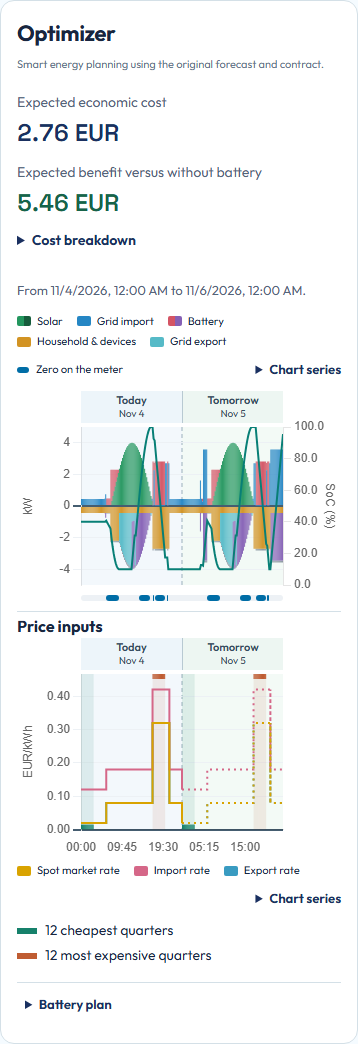
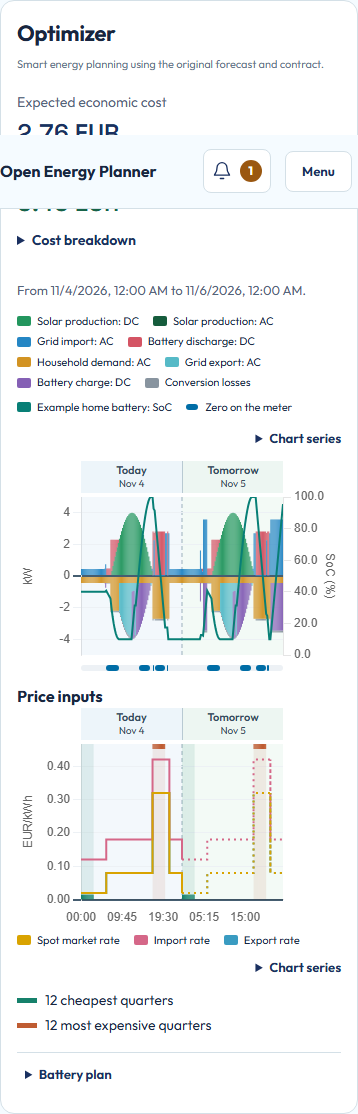
fix: keep planning tooltips readable and show actual chart series

diff --git a/src/open_energy_planner/web/public/overview.js b/src/open_energy_planner/web/public/overview.js
@@ -77,10 +77,6 @@ const INTERVAL_POINTER_EVENTS = new Set(["mousemove", "touchstart", "touchmove"]
 const LINKED_LEFT_AXIS_PX = 64;
 const LINKED_RIGHT_AXIS_PX = 58;
 const DAILY_HIGHLIGHT_QUARTERS = 12;
-const OPTIMIZER_GROUPS = {
-    import: "Grid import", export: "Grid export", solar: "Solar", solarAC: "Solar",
-    load: "Household & devices", charge: "Battery", discharge: "Battery"
-};
 let linkedInterval = null;
 const isLinkedChart = id => LINKED_CHART_IDS.includes(id);
 const DEVICE_PATTERN_SIZE_PX = 8;
@@ -350,7 +346,11 @@ function linkedChartInteraction(canvas, tooltip, hideTooltip, signal) {
 /** Keep pointer and keyboard interval cards within the viewport. */
 function positionChartTooltip(node, canvas, x, y) {
     const bounds = canvas.getBoundingClientRect(), margin = TOOLTIP_VIEWPORT_MARGIN_PX;
-    node.style.left = `${Math.max(margin, Math.min(bounds.left + x + margin, innerWidth - node.offsetWidth - margin))}px`;
+    const anchor = bounds.left + x;
+    const width = node.getBoundingClientRect().width;
+    const right = anchor + margin;
+    const left = right + width + margin <= innerWidth ? right : anchor - margin - width;
+    node.style.left = `${Math.max(margin, Math.min(left, innerWidth - width - margin))}px`;
     node.style.top = `${Math.max(margin, Math.min(bounds.top + y + margin, innerHeight - node.offsetHeight - margin))}px`;
 }
 /**
@@ -543,31 +543,6 @@ function planRankNotes(time) {
     return marks.filter(mark => mark.start <= time && time < mark.end)
         .map(mark => PLAN_RANK_NOTES[mark.extreme]);
 }
-/** Update each compact swatch from the individual series still visible in the plot. */
-function syncChartKey(instance, groupKeys) {
-    for (const {item, swatch, indexes} of groupKeys.values()) {
-        const colors = [...new Set(indexes.filter(index => instance.isDatasetVisible(index))
-            .map(index => instance.data.datasets[index].swatchColor))];
-        item.hidden = !colors.length;
-        if (colors.length) swatch.style.background = colors.length > 1
-            ? `linear-gradient(90deg, ${colors[0]} 50%, ${colors[1]} 50%)` : colors[0];
-    }
-}
-
-/** Add a compact key for a named flow group or standalone series. */
-function addChartKey(legend, groupKeys, group, indexes) {
-    if (!group) return;
-    if (!groupKeys.has(group)) {
-        const item = document.createElement("span"), keySwatch = document.createElement("span");
-        item.className = "planning-group"; keySwatch.className = "series-swatch";
-        keySwatch.setAttribute("aria-hidden", "true");
-        item.append(keySwatch, group);
-        legend.insertBefore(item, legend.querySelector("details"));
-        groupKeys.set(group, {item, swatch: keySwatch, indexes: []});
-    }
-    groupKeys.get(group).indexes.push(...indexes);
-}
-
 /** Explain the selected mark using the ranked contract rate or the spot preview's status. */
 function priceTooltipNotes(item, step, priceHoverTime) {
     const time = Number.isFinite(priceHoverTime) ? priceHoverTime : item.parsed.x;
@@ -591,7 +566,7 @@ function chartTooltipNotes(items, {id, balance, axisTime, priceHoverTime}) {
     return step?.commands || [];
 }
 
-/** Build a compact chart key and shared series menu with persistent checkbox choices. */
+/** Show the actual visible datasets and keep checkbox choices in the shared series menu. */
 function createOverviewLegend(id, series, {preserveVisibility, signal, gridSteps, legend}) {
     const planComparison = ["plan-chart", "reference-chart", "self-consumption-chart"].includes(id);
     // A retained immutable plan has the same legend group identities even after its labels change.
@@ -600,7 +575,7 @@ function createOverviewLegend(id, series, {preserveVisibility, signal, gridSteps
     legend.classList.add("compact-planning-legend");
     legend.replaceChildren();
     let seriesHost = legend;
-    const groupKeys = new Map();
+    const chartKeys = [];
     if (series.length) {
         const disclosure = document.createElement("details");
         const summary = document.createElement("summary");
@@ -653,7 +628,7 @@ function createOverviewLegend(id, series, {preserveVisibility, signal, gridSteps
             selectAll.disabled = !eligible.length;
             selectAll.textContent = eligible.every(({input}) => input.checked) ? "Deselect all" : "Select all";
         }
-        syncChartKey(instance, groupKeys);
+        chartKeys.forEach((item, index) => { item.hidden = !instance.isDatasetVisible(index); });
     }
     /** Attach controls after Chart.js has created the datasets. */
     function renderLegend(result) {
@@ -690,11 +665,18 @@ function createOverviewLegend(id, series, {preserveVisibility, signal, gridSteps
             const swatch = document.createElement("span"); swatch.className = "series-swatch"; swatch.style.backgroundColor = s.legendColor || datasets[indexes[0]].swatchColor; swatch.setAttribute("aria-hidden", "true");
             label.append(input, swatch, document.createTextNode(s.legendName || s.name)); seriesHost.append(label);
             legendEntries.push(entry);
-            const name = s.legendName || s.name;
-            const group = planComparison
-                ? OPTIMIZER_GROUPS[s.flowKey] || (entry.device ? OPTIMIZER_GROUPS.load : null)
-                : name;
-            addChartKey(legend, groupKeys, group, indexes);
+        }
+        const disclosure = legend.querySelector("details");
+        for (const dataset of datasets) {
+            const item = document.createElement("span"), swatch = document.createElement("span");
+            item.className = "planning-series";
+            swatch.className = "series-swatch";
+            swatch.style.backgroundColor = dataset.swatchColor;
+            swatch.classList.toggle("series-swatch-expected", dataset.deviceState === "expected");
+            swatch.setAttribute("aria-hidden", "true");
+            item.append(swatch, dataset.label);
+            legend.insertBefore(item, disclosure);
+            chartKeys.push(item);
         }
         if (gridSteps) {
             const item = document.createElement("span"), swatch = document.createElement("span");
@@ -702,7 +684,7 @@ function createOverviewLegend(id, series, {preserveVisibility, signal, gridSteps
             swatch.className = "grid-mode-swatch";
             swatch.setAttribute("aria-hidden", "true");
             item.append(swatch, ZERO_GRID_LABEL);
-            legend.insertBefore(item, legend.querySelector("details"));
+            legend.insertBefore(item, disclosure);
         }
         if (series.some(s => s.deviceState != null)) {
             const key = document.createElement("p"); key.id = `${id}-device-key`; deviceKey = key;
@@ -752,7 +734,7 @@ function chart(id, series, {utcDays = false, calendarDates = false, unit = "", m
     if (balance) series = quarterBalanceSeries(series);
     charts.get(id)?.destroy();
     $(`${id}-tooltip`)?.remove();
-    const tooltip = document.createElement("div"); tooltip.id = `${id}-tooltip`; tooltip.className = "chart-tooltip";
+    const tooltip = document.createElement("div"); tooltip.id = `${id}-tooltip`; tooltip.className = "chart-tooltip chart-tooltip-point";
     tooltip.hidden = true; tooltip.setAttribute("role", "tooltip"); document.body.append(tooltip);
     const daySummary = {owner: null, pinned: false};
     /** Shared dismissal also revokes date ownership when scrolling or interval inspection replaces it. */

diff --git a/src/open_energy_planner/web/public/workspace.css b/src/open_energy_planner/web/public/workspace.css
@@ -8,13 +8,13 @@
 .price-daily-low { background:#16816b; }
 .price-daily-high { background:#bf5c32; }
 .workspace .compact-planning-legend { display:flex; flex-wrap:wrap; align-items:center; gap:4px 14px; padding:0 0 6px; }
-.compact-planning-legend .planning-group { display:inline-flex; align-items:center; gap:6px; font-size:11px; }
-.compact-planning-legend .planning-group[hidden] { display:none; }
+.compact-planning-legend .planning-series { display:inline-flex; align-items:center; gap:6px; max-width:100%; overflow-wrap:anywhere; font-size:11px; }
+.compact-planning-legend .planning-series[hidden] { display:none; }
 .workspace .compact-planning-legend details { border:0; padding:0; margin:0 0 0 auto; position:relative; }
 .compact-planning-legend summary { padding:6px 0; }
 .workspace .planning-series-options { position:absolute; inset-inline-end:0; z-index:4; width:min(28rem, calc(100vw - 4.5rem)); max-height:55vh; overflow:auto; padding:12px; background:white; border:1px solid var(--oep-line); border-radius:10px; box-shadow:0 4px 16px #1c334026; }
 .planning-series-options .chart-legend { display:grid; grid-template-columns:repeat(auto-fit,minmax(min(175px,100%),1fr)); gap:4px 12px; padding-top:6px; }
-.linked-price { min-width:0; border-top:1px solid var(--oep-line); padding-top:2px; }
+.linked-price { min-width:0; padding-top:3px; }
 .workspace .optimizer-scenario > .chart-wrap { height:270px; }
 @media(max-width:640px) { .workspace .optimizer-scenario > .chart-wrap { height:220px; } }
 .linked-price h4 { margin:0; font-size:16px; }
@@ -178,6 +178,7 @@
 .balance-warning { width:100%; color:#95500d; font-size:12px; }
 .chart-tooltip { position:fixed; z-index:30; pointer-events:none; max-width:min(500px,calc(100vw - 24px)); box-sizing:border-box; padding:12px 14px; border-radius:9px; background:#122d3af5; color:#fff; box-shadow:0 5px 20px #102b3333; font-size:12px; overflow-wrap:anywhere; }
 .chart-tooltip[hidden] { display:none; }
+.chart-tooltip-point:not(.chart-tooltip-day) { width:max-content; }
 .chart-tooltip-day { pointer-events:auto; max-height:calc(100dvh - 24px); overflow-y:auto; }
 .chart-tooltip table { width:100%; margin:0; border-collapse:collapse; }
 .chart-tooltip td { padding:3px 4px; border:0; color:inherit; font-size:12px; vertical-align:top; }

diff --git a/src/open_energy_planner/web/public/balance.js b/src/open_energy_planner/web/public/balance.js
@@ -285,10 +285,8 @@ function balanceSeries(plan, problem, group, consumption, labels, intervals, row
     ];
     const series = definitions
         .filter(([key]) => !(converter && key === "load") && (group.units.length || !["charge", "discharge"].includes(key)))
-        .map(([key, name, tooltipGroup]) => ({
-            ...flowSeries(name, FLOW_COLORS[key], intervals, rows.map((row) => row?.[key]), tooltipGroup),
-            flowKey: key
-        }));
+        .map(([key, name, tooltipGroup]) =>
+            flowSeries(name, FLOW_COLORS[key], intervals, rows.map((row) => row?.[key]), tooltipGroup));
     if (!converter) for (const part of consumption.parts) {
         series.push({...flowSeries(part.name, part.color, intervals, rows.map((row, index) => row == null ? null : -part.values[index]), "Consumption"), legendId: part.identity, legendName: part.legendName, deviceState: part.state});
     }

diff --git a/tests/frontend/browser/test_chart_legend_layout.py b/tests/frontend/browser/test_chart_legend_layout.py
@@ -58,6 +58,7 @@ def test_shared_legends_use_full_plot_width_and_keep_controls(app_page):
     bulk.focus()
     page.keyboard.press("Space")
     expect(legend.get_by_role("button", name="Select all", exact=True)).to_be_focused()
+    expect(legend.locator(".planning-series:visible")).to_have_count(0)
     page.keyboard.press("Space")
     expect(legend.get_by_role("checkbox", name="Grid import: AC", exact=True)).to_be_checked()
     assert page.evaluate("document.documentElement.scrollWidth <= innerWidth")
@@ -117,6 +118,12 @@ def _assert_linked_plot_layout_and_inspection(page, optimizer):
         return priceTop - stripBottom;
     }""")
     assert 0 < spacing <= 14
+    assert (
+        page.locator(".linked-price").evaluate(
+            "section => getComputedStyle(section).borderTopWidth"
+        )
+        == "0px"
+    )
     assert plan.evaluate("canvas => Chart.getChart(canvas).scales.x.options.display") is False
     assert price.evaluate("canvas => Chart.getChart(canvas).scales.x.options.display") is True
     scales = page.evaluate("""() => ["plan-chart", "price-chart"].map(id => {
@@ -124,9 +131,23 @@ def _assert_linked_plot_layout_and_inspection(page, optimizer):
         return [chart.scales.x.min, chart.scales.x.max, chart.chartArea.left, chart.chartArea.right];
     })""")
     assert scales[0] == pytest.approx(scales[1], abs=1)
+    labels = plan.evaluate("""canvas => {
+        const chart = Chart.getChart(canvas);
+        return chart.data.datasets.filter((_, index) => chart.isDatasetVisible(index))
+            .map(dataset => dataset.label);
+    }""")
+    key = page.locator("#plan-chart-legend .planning-series:visible")
+    expect(key).to_have_text(labels)
+    assert "Solar production: DC" in labels
+    assert "Battery charge: DC" in labels
+    assert "Battery discharge: DC" in labels
+    expect(
+        key.filter(has_text=f"{LONG_NAME}: Expected").locator(".series-swatch-expected")
+    ).to_have_count(1)
     directory = Path("results/ci/chart-legend-columns")
     directory.mkdir(parents=True, exist_ok=True)
     optimizer.screenshot(path=str(directory / f"planning-{page.viewport_size['width']}.png"))
+    _assert_interval_tooltip_placement(page, plan, directory)
     images = (
         "() => ['plan-chart', 'price-chart'].map(id => document.getElementById(id).toDataURL())"
     )
@@ -142,6 +163,43 @@ def _assert_linked_plot_layout_and_inspection(page, optimizer):
         price.tap()
         expect(page.locator("#price-chart-tooltip")).to_be_visible()
         expect(page.locator("#plan-evidence-panel")).to_have_js_property("open", False)
+
+
+def _assert_interval_tooltip_placement(page, plan, directory):
+    """Keep the rendered width at either edge and switch sides when there is room."""
+    plan.scroll_into_view_if_needed()
+    tooltip = page.locator("#plan-chart-tooltip")
+    for near_right in (False, True):
+        cursor = plan.evaluate(
+            """(canvas, nearRight) => {
+            const {left, right, top, bottom} = Chart.getChart(canvas).chartArea;
+            return {x: nearRight ? right - 4 : left + 4, y: (top + bottom) / 2};
+        }""",
+            near_right,
+        )
+        plan.hover(position=cursor)
+        expect(tooltip).to_be_visible()
+        bounds = tooltip.bounding_box()
+        natural_width = tooltip.evaluate("""tip => {
+            const original = tip.style.left;
+            tip.style.left = "12px";
+            const width = tip.getBoundingClientRect().width;
+            tip.style.left = original;
+            return width;
+        }""")
+        x = plan.bounding_box()["x"] + cursor["x"]
+        width = page.viewport_size["width"]
+        assert bounds["width"] == pytest.approx(natural_width, abs=1)
+        assert bounds["x"] >= 11
+        assert bounds["x"] + bounds["width"] <= width - 11
+        if width >= 1280 and near_right:
+            assert bounds["x"] + bounds["width"] < x
+        if width >= 1280 and not near_right:
+            assert bounds["x"] > x
+        if near_right:
+            page.screenshot(path=str(directory / f"tooltip-right-edge-{width}.png"))
+    page.mouse.move(0, 0)
+    expect(tooltip).to_be_hidden()
 
 
 @pytest.mark.parametrize("width", [1280, 390])

diff --git a/tests/frontend/browser/test_documentation_examples.py b/tests/frontend/browser/test_documentation_examples.py
@@ -34,7 +34,9 @@ def capture(page, name, selector=None):
     page.evaluate("window.scrollTo(0, 0)")
     path = str(destination / f"{name}-{page.viewport_size['width']}.png")
     if selector:
-        page.screenshot(path=path, full_page=True, clip=page.locator(selector).bounding_box())
+        page.locator(selector).screenshot(
+            path=path, style=".settings-mobilebar { position: static; }"
+        )
     else:
         page.screenshot(path=path, full_page=True)
 

diff --git a/docs/users/read-your-plan.md b/docs/users/read-your-plan.md
@@ -121,11 +121,11 @@ The series together should balance around zero before hidden series and the
 
 Interval pop-ups show positive **Total production** and negative **Total consumption** values, independently summed from every original flow, including hidden or filtered legend items. Totals include grid, solar, battery, device and conversion flows rather than household demand alone. Missing flow evidence makes its total unavailable. Interval totals use kW and daily totals use kWh.
 
-Bars show mean kW for their covered quarter. Battery lines use the separate SoC percentage axis. Tap or hover for the exact interval. A partial quarter has its actual covered duration rather than a fabricated full-quarter energy amount.
+Bars show mean kW for their covered quarter. Battery lines use the separate SoC percentage axis. Tap or hover for the exact interval. When the tooltip cannot fit to the right of the pointer, it opens to the left if there is space there. A partial quarter has its actual covered duration rather than a fabricated full-quarter energy amount.
 
 Use **Next 6 hours**, **Next 24 hours** or **Full period**. The Optimizer and **Price inputs** charts share the time axis below **Price inputs**. Hover or tap either chart to highlight the same interval in both. The interval shows grid energy, the original import and export rates, import cost and export revenue before bonus. Moving the pointer to a different quarter dismisses a pinned readout for the previous quarter. With a chart focused, use the arrow keys to move by interval and Escape to dismiss the selection. Day labels follow the installation timezone.
 
-The balance legends group the main energy flows. Open **Chart series** on any Planning graph to toggle its individual series. On the balance charts this includes devices, conversion losses and state of charge. Hidden or missing data does not represent a measured zero.
+The legend names each visible series as it appears in the chart, including conversion losses, battery state of charge and separate expected and scheduled device bars. Open **Chart series** on any Planning graph to change which series are visible. Hidden or missing data does not represent a measured zero.
 
 Hover over a date above any of the three scenario charts to see **Expected energy totals**.
 **Total expected production** and **Total expected energy use** sum the scenario flows for the shown period.
@@ -150,10 +150,9 @@ intervals shown for today. Earlier measured energy is excluded.
 The Optimizer, Self-consumption and Without battery charts show each separated
 appliance in the consumption bars and legend. **Expected** is probable remaining
 use. **Scheduled** is a concrete acknowledged cycle or charging session. Both
-are estimates until measured. Each device has one legend entry. Its expected
+are estimates until measured. Each device has one control in **Chart series**. Its expected
 use has striped bars and its scheduled use has solid bars in the same color.
-Tap or hover over the balance to see both contributions separately. The legend
-switch hides or shows both contributions together. Devices with the same name
+Tap or hover over the balance to see both contributions separately. The device switch in **Chart series** hides or shows both contributions together. Devices with the same name
 remain separate devices.
 
 An appliance is omitted from both bars and legend when its combined expected

diff --git a/docs/development/EMS-VISUALIZATION.md b/docs/development/EMS-VISUALIZATION.md
@@ -259,8 +259,11 @@ Chart.js 4.5.1 is bundled locally, with its MIT notice, without CDN requests or
 an additional frontend framework. Hover/tap gives timestamp and values. Native
 HTML tooltips use separate label, right-aligned tabular-number and unit columns.
 Long labels wrap without shifting individual values. All source text is rendered
-as text, and the popup remains inside the viewport.
-checkbox legends work with a keyboard. The 6-hour, 24-hour and full-horizon
+as text. The interval popup keeps its content width within the viewport limit.
+It opens to the right of the interval when there is room, flips to the left
+when necessary, and stays within the viewport when neither side has room.
+The visible legend uses the actual dataset names and swatches. The separate
+**Chart series** checkboxes work with a keyboard. The 6-hour, 24-hour and full-horizon
 controls apply to every planning graph. A keyboard/touch interval inspector
 explains commands, solar permission, prices and market-rate provenance at that
 instant. Battery series are keyed by immutable device ID, never by the display name.
